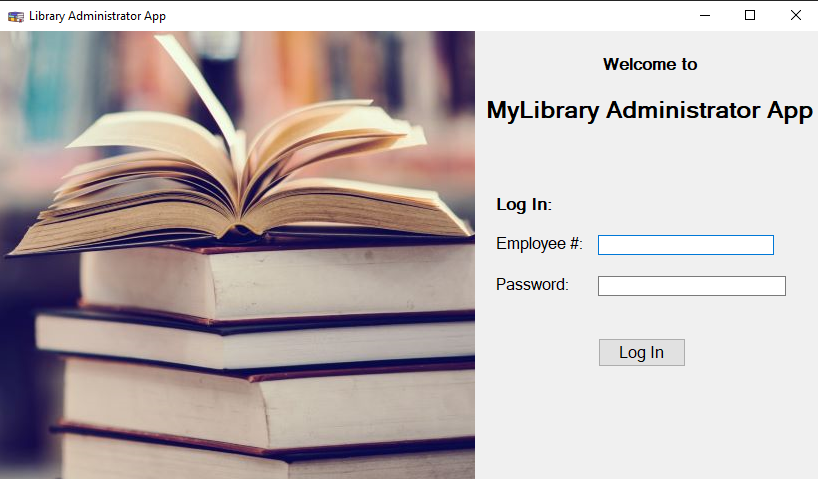
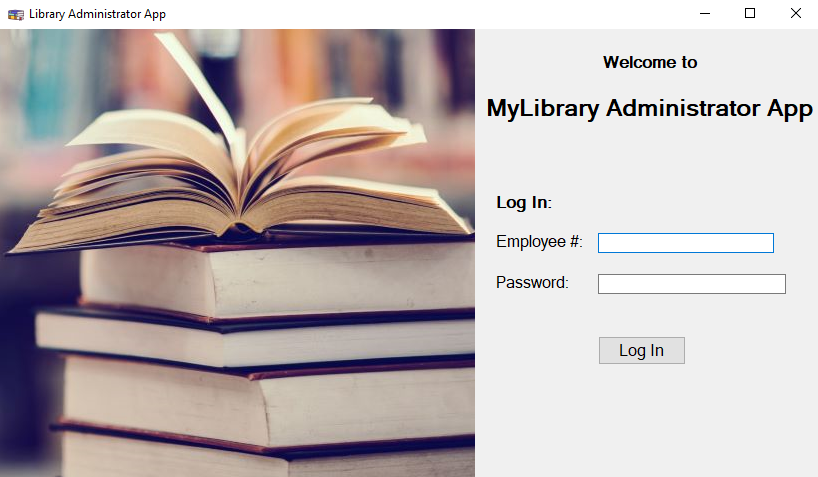
Updated portolio
-Edited administrator app image
-Added an icon to page

diff --git a/index.html b/index.html
@@ -3,6 +3,7 @@
 
 <head>
   <meta charset="utf-8">
+  <link rel="icon" type="image/png" sizes="16x16" href="images/favicon.png">
   <title>My Portfolio</title>
 
   <!-- CSS Links -->
@@ -10,11 +11,12 @@
   <link rel="stylesheet" href="https://cdn.jsdelivr.net/npm/bootstrap-icons@1.9.1/font/bootstrap-icons.css">
   <link href="https://fonts.googleapis.com/css2?family=Montserrat:wght@100;300;400;500;900&family=Ubuntu:wght@300;400;700&display=swap" rel="stylesheet">
   <link href="https://cdn.jsdelivr.net/npm/bootstrap@5.2.2/dist/css/bootstrap.min.css" rel="stylesheet" integrity="sha384-Zenh87qX5JnK2Jl0vWa8Ck2rdkQ2Bzep5IDxbcnCeuOxjzrPF/et3URy9Bv1WTRi" crossorigin="anonymous">
-    <link rel="stylesheet" href="https://unpkg.com/aos@next/dist/aos.css" />
+  <link href="https://unpkg.com/aos@2.3.1/dist/aos.css" rel="stylesheet">
   <link rel="stylesheet" href="style.css">
 </head>
 
 <body>
+  <!-- navbar -->
   <nav class="navbar fixed-top navbar-expand-lg navbar-dark bg-dark">
     <div class="container-fluid">
       <a class="navbar-brand" href="#"><img src="images/profile.png" alt="Profile Picture" heigh=50px width=50px></a>
@@ -23,7 +25,7 @@
       </button>
       <div class="collapse navbar-collapse" id="navbarNavAltMarkup">
         <div class="navbar-nav">
-          <a class="nav-link active" href="#intro">Intro</a>
+          <a class="nav-link" href="#intro">Intro</a>
           <a class="nav-link" href="#about">About</a>
           <a class="nav-link" href="#skills">Skills</a>
           <a class="nav-link" href="#works">Works</a>
@@ -33,9 +35,10 @@
     </div>
   </nav>
   </div>
+
   <!--Container Start-->
   <div class="container">
-
+    <!-- Intro -->
     <div class="intro content" data-aos="fade-right" id="intro">
       <div class="intro-text">
         <h4 class="heading">Hello World</h4>
@@ -44,15 +47,13 @@
         <h1>Software Developer.</h1>
       </div>
       <div class="link-icons">
-        <a href="#"><i class="bi bi-server"></i></a>
-        <a href="#"><i class="bi bi-server"></i></a>
-        <a href="#"><i class="bi bi-server"></i></a>
-        <a href="#"><i class="bi bi-server"></i></a>
-        <a href="#"><i class="bi bi-server"></i></a>
-        <a href="#"><i class="bi bi-server"></i></a>
+        <a href="https://github.com/christianramos10" target="_blank"><i class="fa-brands fa-github"></i></a>
+        <a href="https://www.linkedin.com/in/christian-ramos-055a401bb/" target="_blank"><i class="fa-brands fa-linkedin"></i></a>
+        <a href="" onclick="sendMessage()"><i class="fa-solid fa-envelope"></i></a>
+        <a href="https://twitter.com/Chris604565" target="_blank"><i class="fa-brands fa-twitter"></i></a>
       </div>
     </div>
-
+    <!-- About -->
     <div class="about content" data-aos="fade-left" id="about">
         <h4 class="heading">About Me</h4>
       <div class="row">
@@ -61,12 +62,12 @@
         </div>
         <div class="col-lg-6 about-text">
           <p>I am <span>Christian Ramos Lopez</span>. I enjoy developing software applications, working on both <span>front-end</span> and <span>back-end</span>. I am always striving to learn and develop new skills and become a better <span>software engineer</span> one line of code at a time.</p>
-          <p>My main experience is in both <span>web and desktop application development</span>. However, I occasionally enjoy creating simple and functional mini-games.</p>
+          <p>My main experience is in both <span>web and desktop application development</span>. However, I occasionally enjoy creating simple yet entertaining mini-games.</p>
           <button type="button" class="btn btn-dark btn-lg">Resume</button>
         </div>
       </div>
     </div>
-
+    <!-- Skills -->
     <div class="skills content" data-aos="fade-right" id="skills">
         <h4 class="heading">My Skills</h4>
         <div class="row">
@@ -79,7 +80,6 @@
                 <p class="card-text"><i class="fa-solid fa-caret-right"></i> C#</p>
                 <p class="card-text"><i class="fa-solid fa-caret-right"></i> SQL</p>
                 <p class="card-text"><i class="fa-solid fa-caret-right"></i> HTML</p>
-                <p class="card-text"><i class="fa-solid fa-caret-right"></i> CSS</p>
                 <p class="card-text"><i class="fa-solid fa-caret-right"></i> Bootstrap</p>
                 <p class="card-text"><i class="fa-solid fa-caret-right"></i> PHP</p>
                 <p class="card-text"><i class="fa-solid fa-caret-right"></i> MySQL</p>
@@ -92,7 +92,8 @@
               <i class="fa-solid fa-laptop-code image-icon"></i>
               <div class="card-body">
                 <h5 class="card-title">Exposed</h5>
-                <p class="card-text"><i class="fa-solid fa-caret-right"></i> NodeJS</p>
+                <p class="card-text"><i class="fa-solid fa-caret-right"></i> CSS</p>
+                <p class="card-text"><i class="fa-solid fa-caret-right"></i> JS</p>
                 <p class="card-text"><i class="fa-solid fa-caret-right"></i> C++</p>
                 <p class="card-text"><i class="fa-solid fa-caret-right"></i> Command Line</p>
                 <p class="card-text"><i class="fa-solid fa-caret-right"></i> Ubuntu</p>
@@ -107,13 +108,13 @@
                 <h5 class="card-title">Knowledge</h5>
                 <p class="card-text"><i class="fa-solid fa-caret-right"></i> OOP</p>
                 <p class="card-text"><i class="fa-solid fa-caret-right"></i> Data Structures</p>
-                <p class="card-text"><i class="fa-solid fa-caret-right"></i> Scrum</p>
+                <p class="card-text"><i class="fa-solid fa-caret-right"></i> SDLC - Theory</p>
               </div>
             </div>
           </div>
         </div>
     </div>
-
+    <!-- Works -->
     <div class="works content" data-aos="fade-left" id="works">
         <h4 class="heading">My Work</h4>
         <div class="row">
@@ -123,8 +124,9 @@
               <div class="card-body">
                 <h5 class="card-title"><span>My Library Website</span></h5>
                 <p class="card-text">Created a website for a "local" library where users can order books and have them physically prepared.</p>
+                <p class="card-text">Use 'robertoflores@mail.com' and '@roberto0001' to LogIn or create your own account.</p>
                 <p class="card-text"><i class="fa-brands fa-html5"></i><i class="fa-brands fa-css3-alt"></i><i class="fa-brands fa-bootstrap"></i><i class="fa-brands fa-square-js"></i><i class="fa-brands fa-php"></i></p>
-                <a href="#" class="btn btn-dark">Go to site</a>
+                <a href="http://mylibraryy.online/" target="_blank" class="btn btn-dark">Go to site</a>
               </div>
             </div>
           </div>
@@ -134,51 +136,61 @@
               <div class="card-body">
                 <h5 class="card-title"><span>My Library Admin App</span></h5>
                 <p class="card-text">Developed a desktop application for My Library Website using C#-WinForms where employees can manage the library's system.</p>
-                <a href="#" class="btn btn-dark">View Code</a>
+                <p class="card-text">From this application, employees can view and edit current book orders, books that are rented and the book's database. Administrators can also view and edit employee's and client's database.</p>
+                <a href="https://github.com/christianramos10/Library-Management-Site" target="_blank" class="btn btn-dark">View Code</a>
               </div>
             </div>
           </div>
         </div>
     </div>
-
+      <!-- Contact -->
     <div class="contact content" data-aos="fade-right" id="contact">
         <h4 class="heading">Contact Me</h4>
         <h2 class="contact-message">I'd love to hear from you. Whether you have a question or just want to chat about software developing technologies - send me a message.</h2>
         <div class="row">
           <div class="col-lg-4 col-md-6">
             <h5>Reach Me At</h5>
-            <p><a href="#"><span>christianramoslopez10@gmail.com</span></a></p>
+            <p><a href="" onclick="sendMessage()"><span class="link">christianramoslopez10@gmail.com</span></a></p>
           </div>
           <div class="col-lg-4 col-md-6">
             <h5>Social</h5>
-            <p><a href="#"><span>LinkedIn</span></a> , <a href="#"><span>GitHub</span></a></p>
-            <p><a href=""><span>Twitter</span></a></p>
+            <p><a href="https://www.linkedin.com/in/christian-ramos-055a401bb/ target="_blank""><span class="link">LinkedIn</span></a> , <a href="https://github.com/christianramos10"><span class="link">GitHub</span></a></p>
+            <p><a href="https://twitter.com/Chris604565" target="_blank"><span class="link">Twitter</span></a></p>
           </div>
           <div class="col-lg-4 col-md-6">
-              <a href="#" class="btn btn-dark btn-lg">Send Me A Message</a>
+            <div class="form-content">
+                <div class="form-group">
+                  <label for="subject"> Subject:</label>
+                  <input type="text" id="subject" name="subject">
+                </div>
+                <div class="form-group">
+                  <label for="message"> Message:</label>
+                  <textarea name="message" class="text" id="message" rows="8" cols="80"></textarea>
+                </div>
+                <div class="form-group">
+                  <button type="submit" class="btn btn-dark btn-lg" name="button" onclick="sendMessage()">Send Message</button>
+                </div>
+            </div>
           </div>
         </div>
     </div>
 
   </div>
-
-  <!-- JavaScript Bundle with Popper -->
   <script src="https://cdn.jsdelivr.net/npm/bootstrap@5.2.2/dist/js/bootstrap.bundle.min.js" integrity="sha384-OERcA2EqjJCMA+/3y+gxIOqMEjwtxJY7qPCqsdltbNJuaOe923+mo//f6V8Qbsw3" crossorigin="anonymous"></script>
-  <script src="https://unpkg.com/aos@next/dist/aos.js"></script>
   <script src="https://ajax.googleapis.com/ajax/libs/jquery/3.6.1/jquery.min.js"></script>
+  <script src="https://unpkg.com/aos@2.3.1/dist/aos.js"></script>
   <script>
     AOS.init();
   </script>
   <script type="text/javascript">
-    const sections = $(".content");
-    const navLi = $(".navbar .nav-link");
-    $(window).scroll(function(){
-      let current = "";
-      sections.forEach(section => {
-
-      });
-
-    });
+    function sendMessage(){
+        let subject = document.getElementById('subject').value;
+        let message = document.getElementById('message').value;
+        let mail = document.createElement("a");
+        let ref = "mailto:christianramoslopez10@gmail.com?subject="+subject+"&body="+message;
+        mail.href = ref;
+        mail.click();
+    };
   </script>
 </body>
 

diff --git a/style.css b/style.css
@@ -14,15 +14,39 @@ span, .heading{
   color: #FF6D28;
 }
 
+.link:hover{
+  color: #fff;
+}
+
 a{
   text-decoration: none;
 }
 
+.link-icons i{
+  color: #FF6D28;
+}
+.link-icons i:hover{
+  color: #fff;
+}
+
+.btn{
+  color: #FF6D28;
+}
+
+.btn:hover{
+  background-color: #FF6D28;
+  border-color: #FF6D28;
+  color: #fff;
+}
+
 /* Navbar */
-.navbar .active a{
+.navbar .nav-link{
   font-weight: bold;
   color: #FF6D28;
-  visibility: hidden;
+}
+
+.navbar .nav-link:hover{
+  color: #fff;
 }
 
 .heading{
@@ -124,4 +148,17 @@ a{
 /* Contact Me section */
 .contact-message{
   margin: 7% 0 12% 0;
+}
+
+.form-group{
+  width: 100%;
+  margin-top: 10px;
+  text-align: left;
+}
+
+.form-group input, .form-group textarea{
+  width: 100%;
+  padding: 15px;
+  border: none;
+  outline: none;
 }
